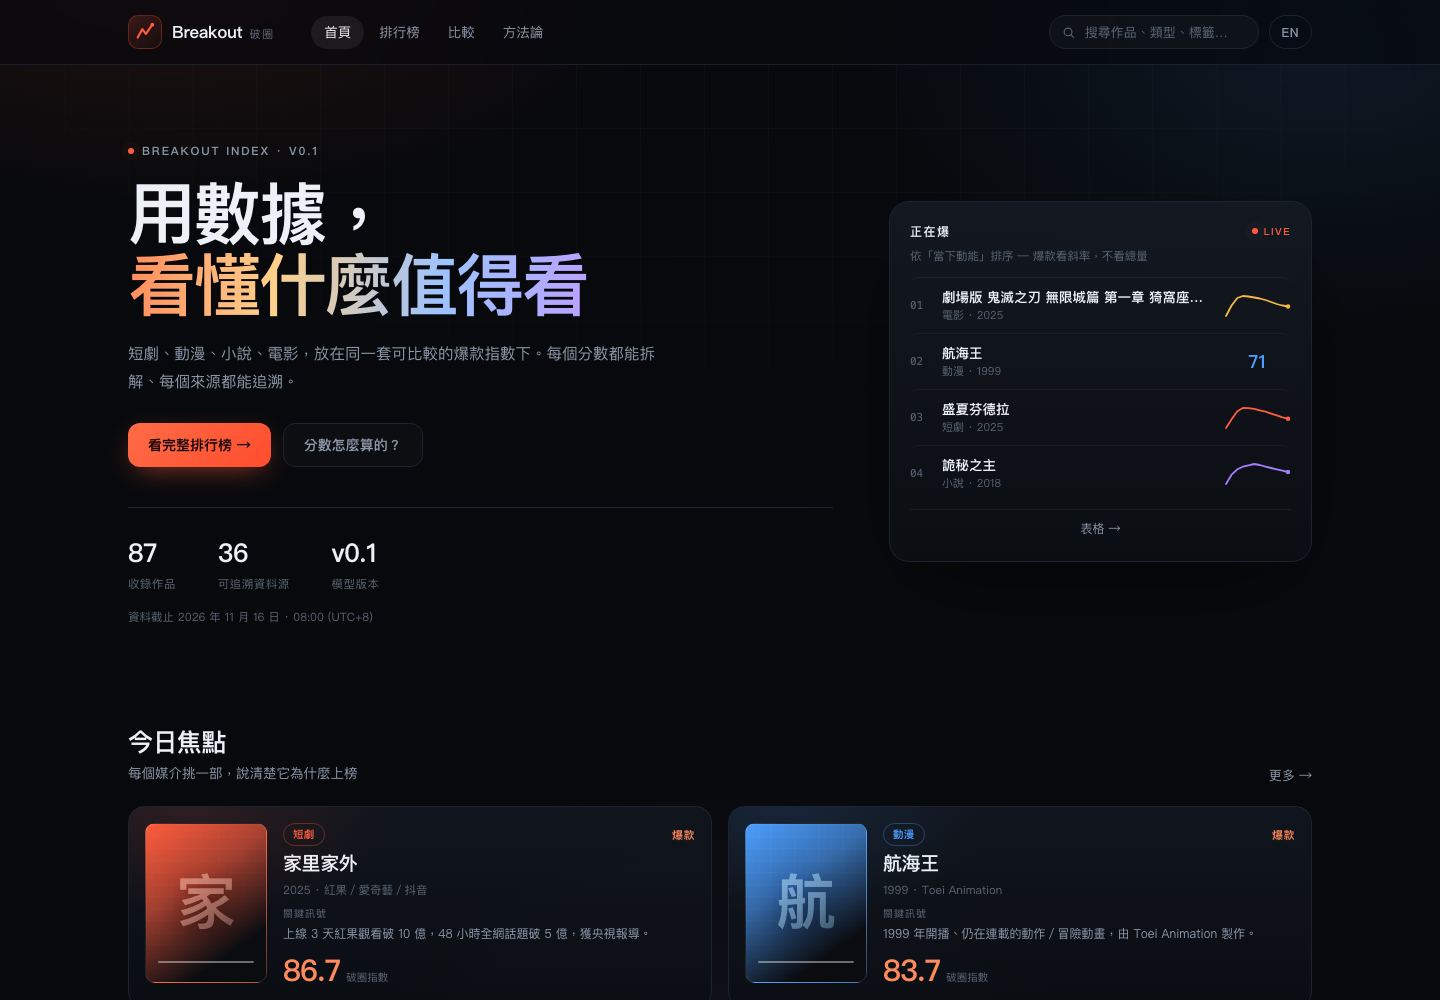
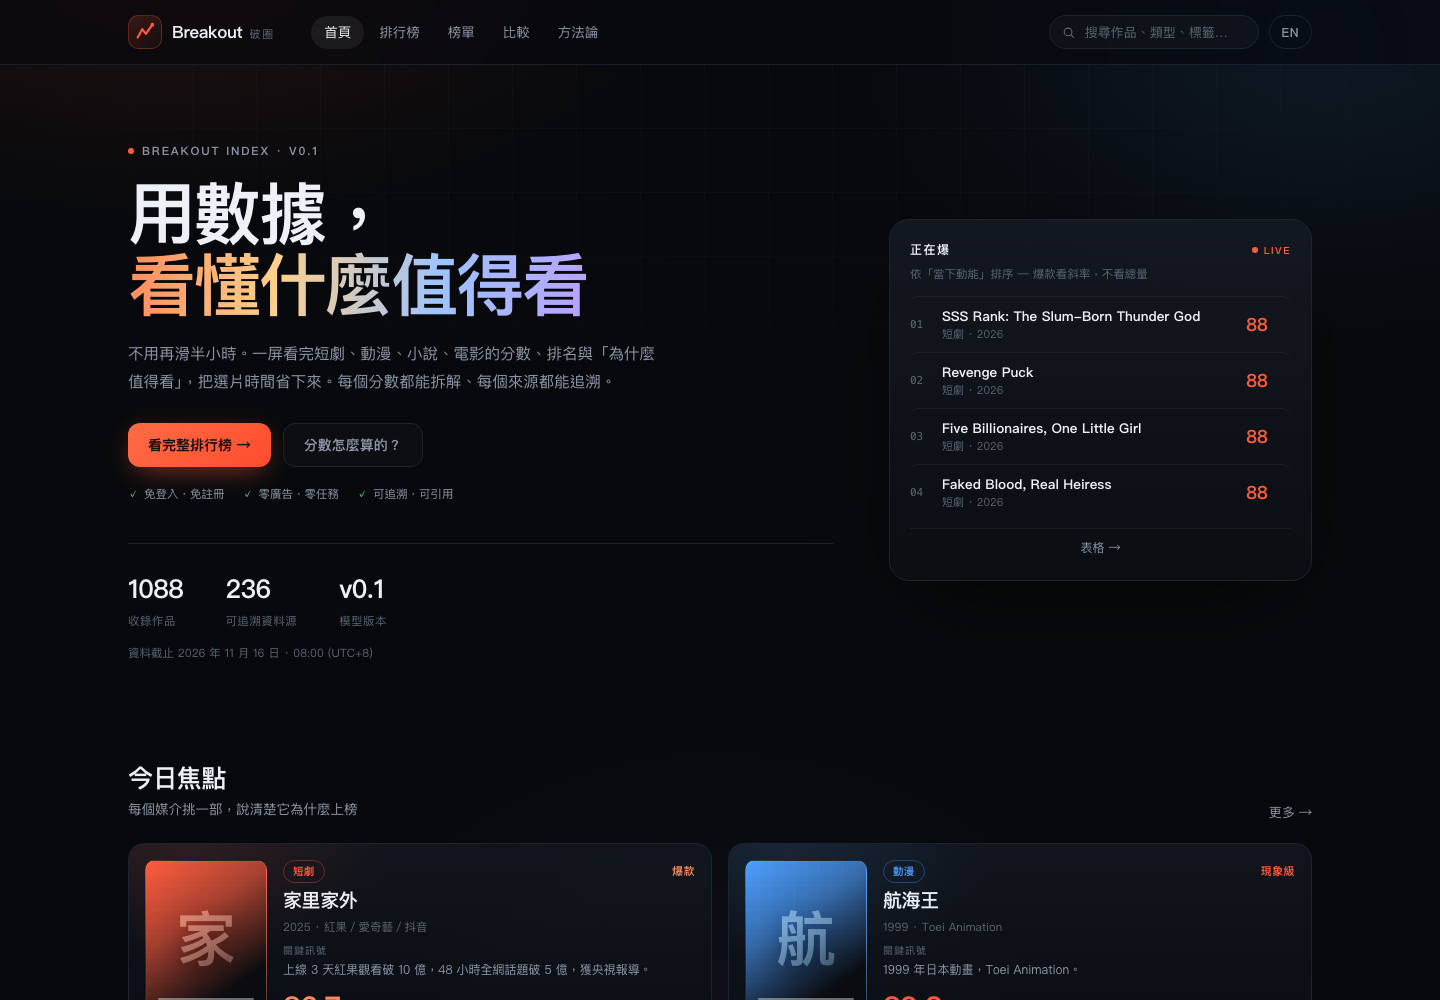
docs: refresh screenshots for 1,088-title dataset and boards

diff --git a/README.md b/README.md
@@ -15,9 +15,9 @@
 
 ![Breakout 首頁 / Home](docs/assets/home.png)
 
-| 作品詳情 / Title detail | 比較 / Compare |
+| 國家 × 品類榜單 / Country boards | 作品詳情 / Title detail |
 |---|---|
-| ![detail](docs/assets/detail.png) | ![compare](docs/assets/compare.png) |
+| ![boards](docs/assets/boards.png) | ![detail](docs/assets/detail.png) |
 
 ---
 
